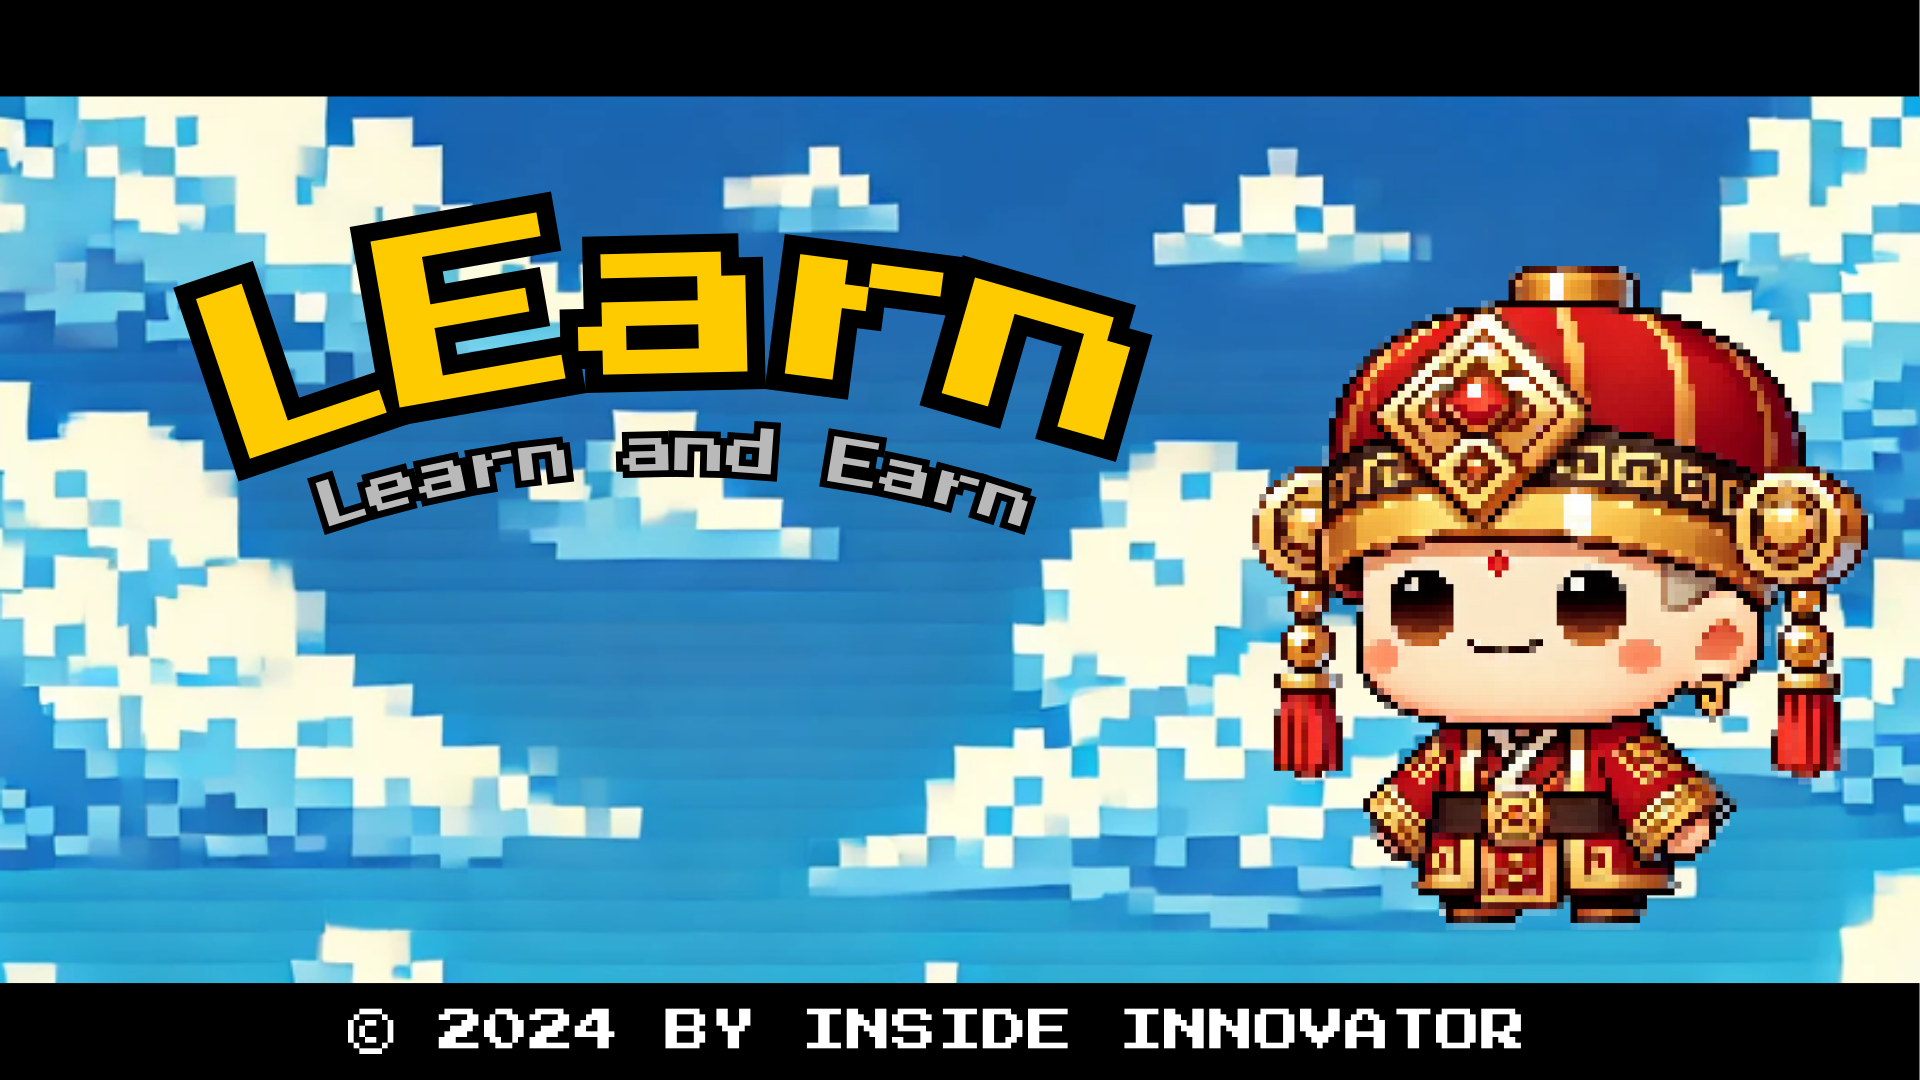
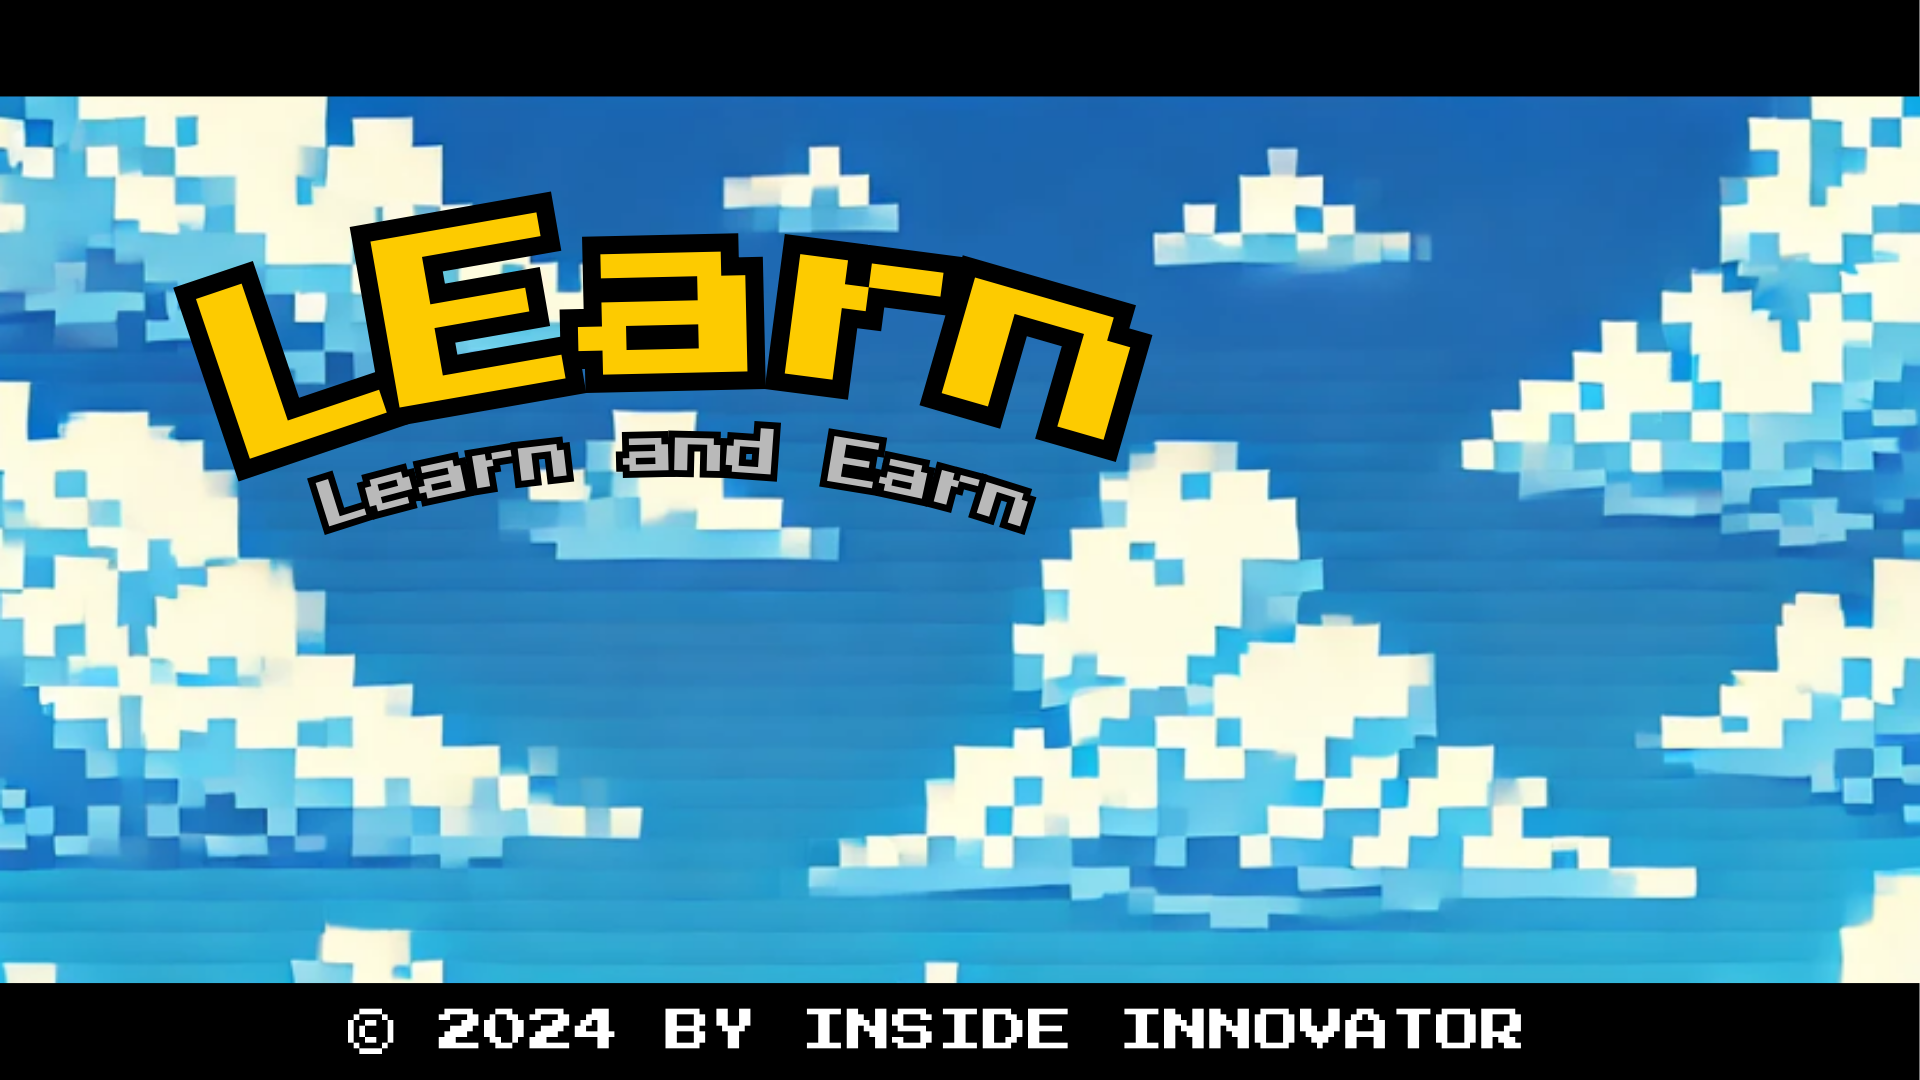
added animation to landing

Changed region(s): [[0.6562, 0.2444, 1.0, 0.8861]]

diff --git a/components/Landing.js b/components/Landing.js
@@ -1,6 +1,7 @@
 import Head from 'next/head';
 import FloatingLoginButton from '../components/FloatingLoginButton'; // Import the FloatingLoginButton component
 import StartGameButton from '../components/StartGame'; // Import the StartGameButton component
+import Image from 'next/image';
 
 const LandingPage = () => {
   return (
@@ -14,6 +15,10 @@ const LandingPage = () => {
         <div className="buttons">
           <FloatingLoginButton />
           <StartGameButton /> 
+        </div>
+        <div className="logo-container">
+          <Image src="/LEarn.png" alt="LEarn Logo" layout="fill" objectFit="cover" className="logo" />
+          <Image src="/csy.gif" alt="Additional Image" width={400} height={400} className="additional-image" />
         </div>
       </main>
       <style jsx global>{`
@@ -79,6 +84,23 @@ const LandingPage = () => {
         }
         .play-button:hover {
           background-color: #0059c1;
+        }
+        .logo-container {
+          position: relative;
+          display: flex;
+          align-items: center;
+          justify-content: center;
+        }
+        .logo {
+          position: relative;
+          width: 100%;
+          height: 100%;
+        }
+        .additional-image {
+          position: absolute;
+          right: -550px; /* Adjust this value as needed */
+          top: -250px;
+          transform: translateY(-50%);
         }
       `}</style>
     </div>
